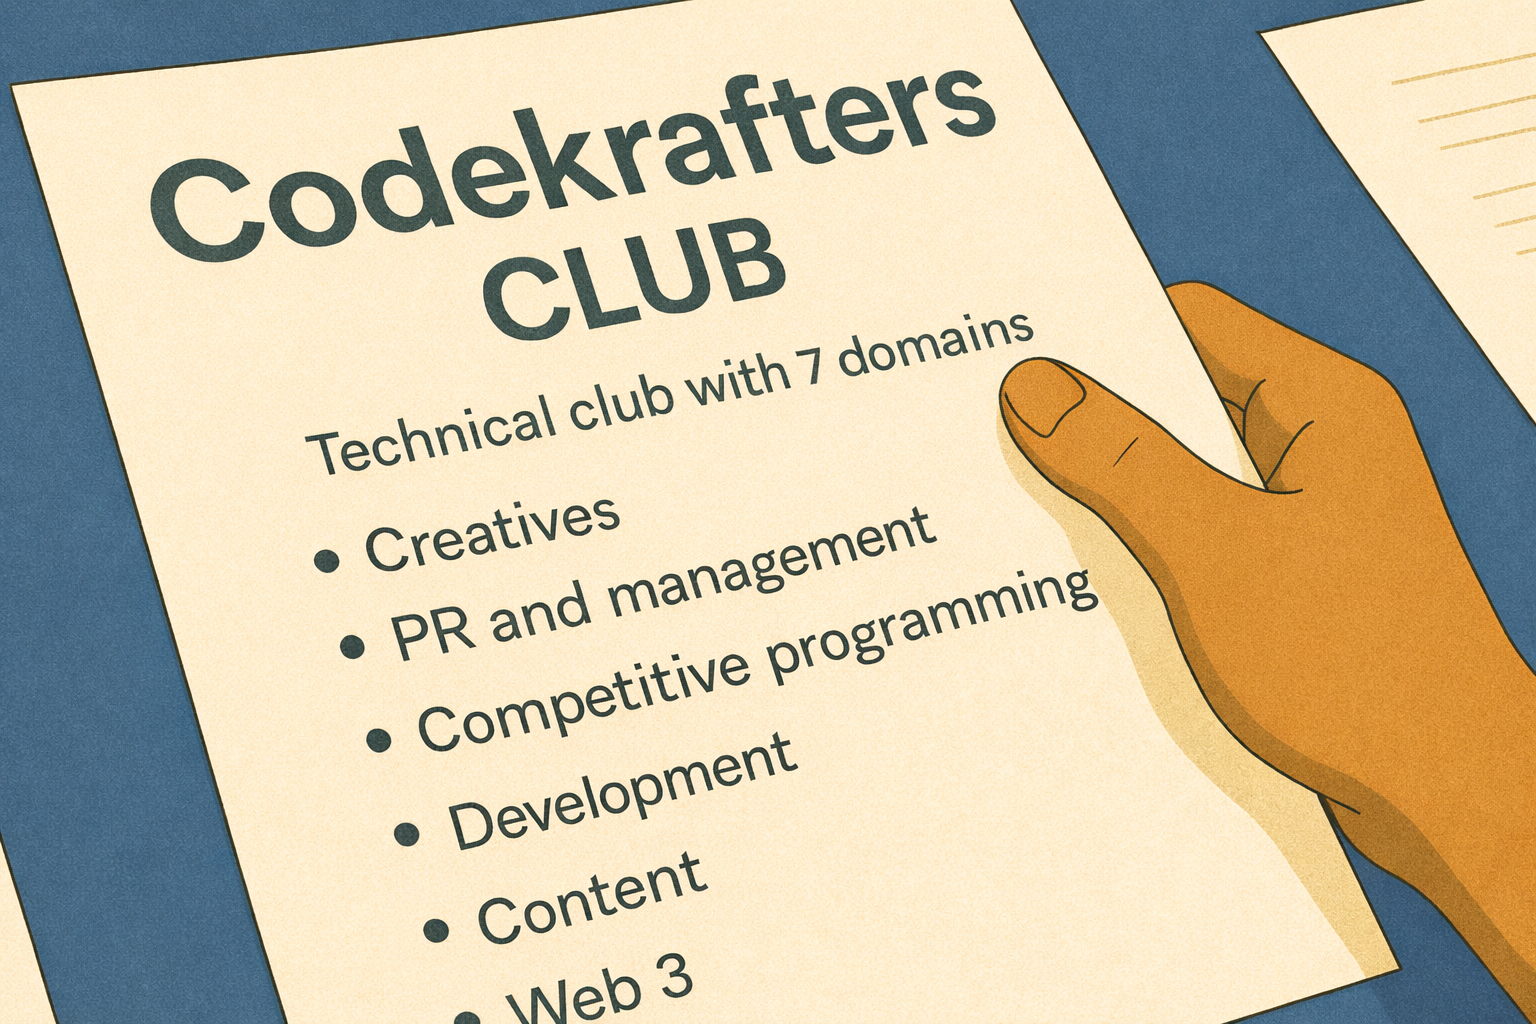
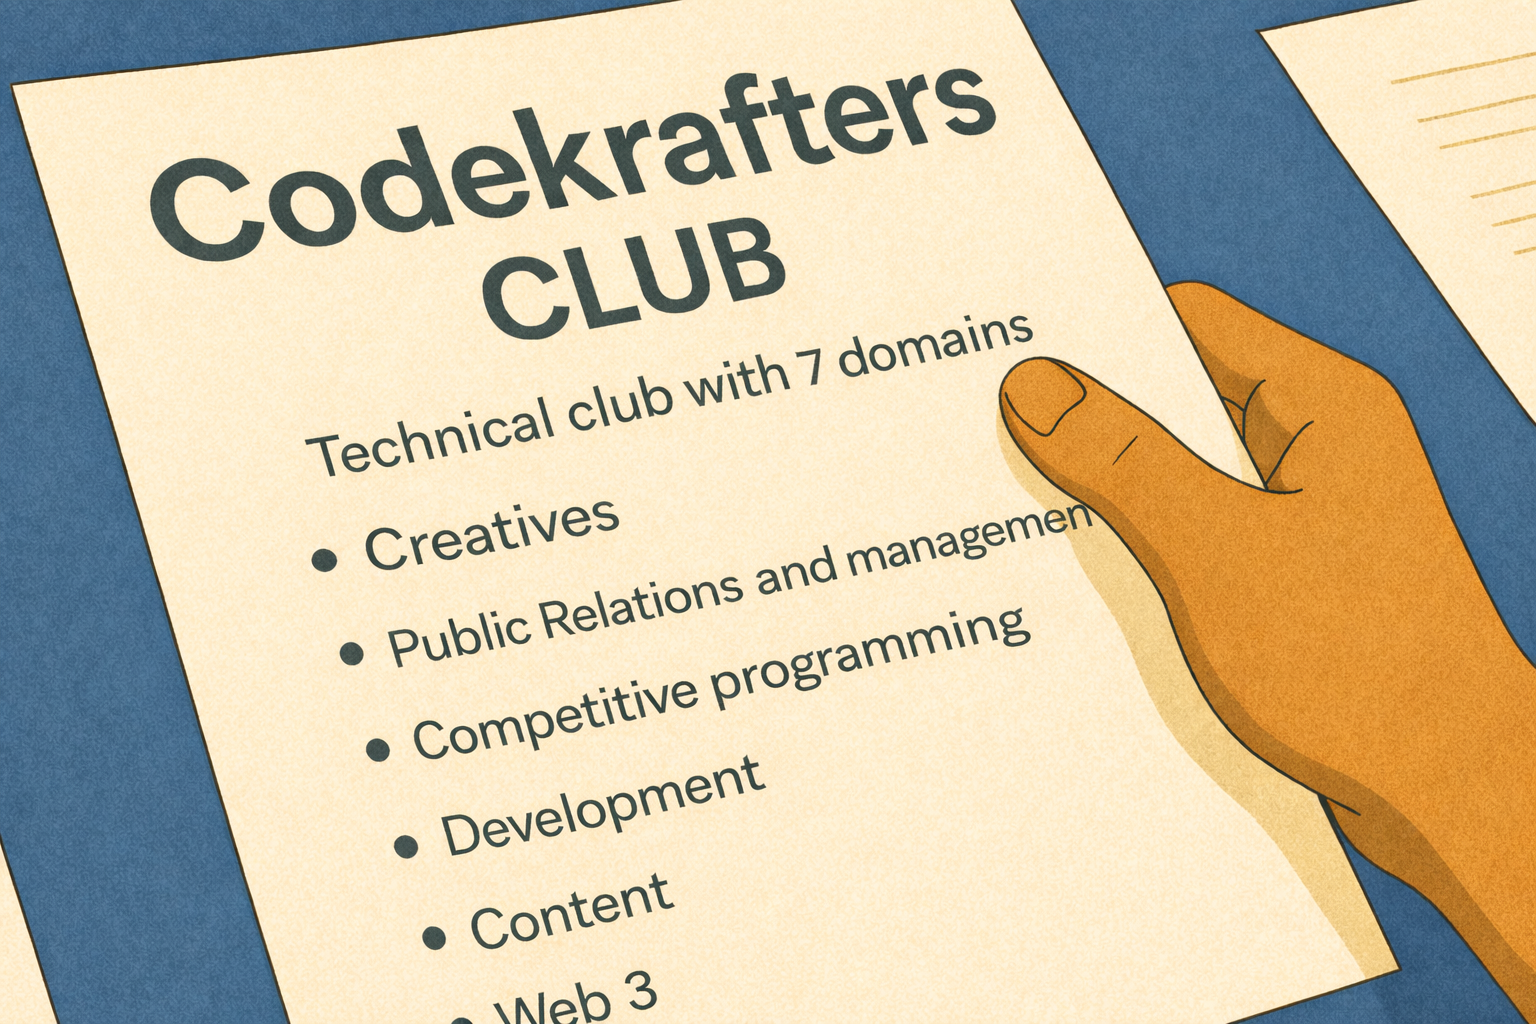
Fixed Minor changes

diff --git a/src/data/team-data.ts b/src/data/team-data.ts
@@ -251,10 +251,10 @@ export const TEAM_MEMBERS = [
   {
     id: 19,
     name: "Banu Pragathi",
-    role: "PR & Management Head",
+    role: "Public Relations & Management Head",
     description: "Oversees PR strategy and management operations.",
     imagePath: "/images/pragathi.png",
-    domain: "pr",
+    domain: "publicrelations",
     social: {
       instagram: "https://instagram.com/banupragathi",
       github: "https://github.com/banupragathi",
@@ -264,10 +264,10 @@ export const TEAM_MEMBERS = [
   {
     id: 20,
     name: "Kavya Reddy",
-    role: "PR & Management Head",
+    role: "Public Relations & Management Head",
     description: "Manages organizational relationships and growth.",
     imagePath: "/images/Kavya.png",
-    domain: "pr",
+    domain: "publicrelations",
     social: {
       instagram: "https://instagram.com/kavyareddych",
       github: "https://github.com/kavyareddych",
@@ -277,10 +277,10 @@ export const TEAM_MEMBERS = [
   {
     id: 21,
     name: "Siddarth Kilari",
-    role: "PR & Management Lead",
+    role: "Public Relations & Management Lead",
     description: "Drives PR initiatives and communications.",
     imagePath: "/images/Siddharth.png",
-    domain: "pr",
+    domain: "publicrelations",
     social: {
       instagram: "https://instagram.com/siddarthkilari",
       github: "https://github.com/siddarthkilari",
@@ -290,10 +290,10 @@ export const TEAM_MEMBERS = [
   {
     id: 22,
     name: "Satya Lohith",
-    role: "PR & Management Lead",
+    role: "Public Relations & Management Lead",
     description: "Leads management strategy and team development.",
     imagePath: "/images/Satya.png",
-    domain: "pr",
+    domain: "publicrelations",
     social: {
       instagram: "https://instagram.com/satyalohith",
       github: "https://github.com/satyalohith",
@@ -337,6 +337,6 @@ export const DOMAINS = [
   { id: "cp", label: "Competitive Programming" },
   { id: "web3", label: "Web3" },
   { id: "creatives", label: "Creatives" },
-  { id: "pr", label: "PR & Management" },
+  { id: "publicrelations", label: "Public Relations & Management" },
   { id: "operations", label: "Operations" },
 ]

diff --git a/src/components/Team.tsx b/src/components/Team.tsx
@@ -189,13 +189,29 @@ export default function TeamComponent() {
 
                       {/* Image container with responsive sizing and flex-shrink-0 */}
                       <div className="w-24 sm:w-28 md:w-32 lg:w-36 h-24 sm:h-28 md:h-32 lg:h-36 overflow-hidden rounded-full border-2 border-[#0D0D0D] mb-2 sm:mb-3 bg-[#FFF2C6] shadow-inner flex-shrink-0">
-                        <Image
-                          src={member.imagePath || "/placeholder.svg"}
-                          alt={member.name}
-                          width={130}
-                          height={130}
-                          className="object-cover object-top w-full h-full"
-                        />
+                        {member.name === "Yashvanth MR" ? (
+  <div
+    role="img"
+    aria-label={member.name}
+    style={{
+      backgroundImage: `url(${member.imagePath || "/placeholder.svg"})`,
+      backgroundPosition: "center -30%",
+      backgroundSize: "cover",
+      backgroundRepeat: "no-repeat",
+      width: "100%",
+      height: "100%",
+      transform: "translateX(6%)", // 👈 force move image to the RIGHT
+    }}
+  />
+) : (
+  <Image
+    src={member.imagePath || "/placeholder.svg"}
+    alt={member.name}
+    width={130}
+    height={130}
+    className="object-cover object-top w-full h-full"
+  />
+)}
                       </div>
 
                       {/* Name with responsive text size and line clamping */}
@@ -204,7 +220,7 @@ export default function TeamComponent() {
                       </h3>
 
                       {/* Role with responsive text size and line clamping */}
-                      <p className="text-[#F2A516] font-bold text-[10px] sm:text-xs md:text-sm uppercase mb-1.5 sm:mb-2 tracking-wide line-clamp-1">
+                      <p className="text-[#F2A516] font-bold text-[10px] sm:text-xs md:text-sm uppercase mb-1.5 sm:mb-2 tracking-wide line-clamp-2">
                         {member.role}
                       </p>
 

diff --git a/src/components/Domains.tsx b/src/components/Domains.tsx
@@ -23,7 +23,8 @@ const DOMAINS = [
   { id: "cp", name: "Competitive Programming", icon: Laptop, desc: "Sharpening logic and algorithms for hackathons and coding contests." },
   { id: "web3", name: "Web3", icon: Globe, desc: "Exploring decentralized apps, blockchain tech, and on-chain innovation." },
   { id: "creatives", name: "Creatives", icon: Palette, desc: "Designing visuals, posters, and brand experiences that pop." },
-  { id: "pr", name: "Public Relations", icon: Users, desc: "Connecting CodeKrafters with communities and managing collaborations." },
+  { id: "publicrelations", name: "Public Relations and Management", icon: Users, desc: "Connecting CodeKrafters with communities and managing collaborations." },
+
   { id: "operations", name: "Operations", icon: Wrench, desc: "Handling logistics, event flow, and everything behind the scenes." },
 ];
 
